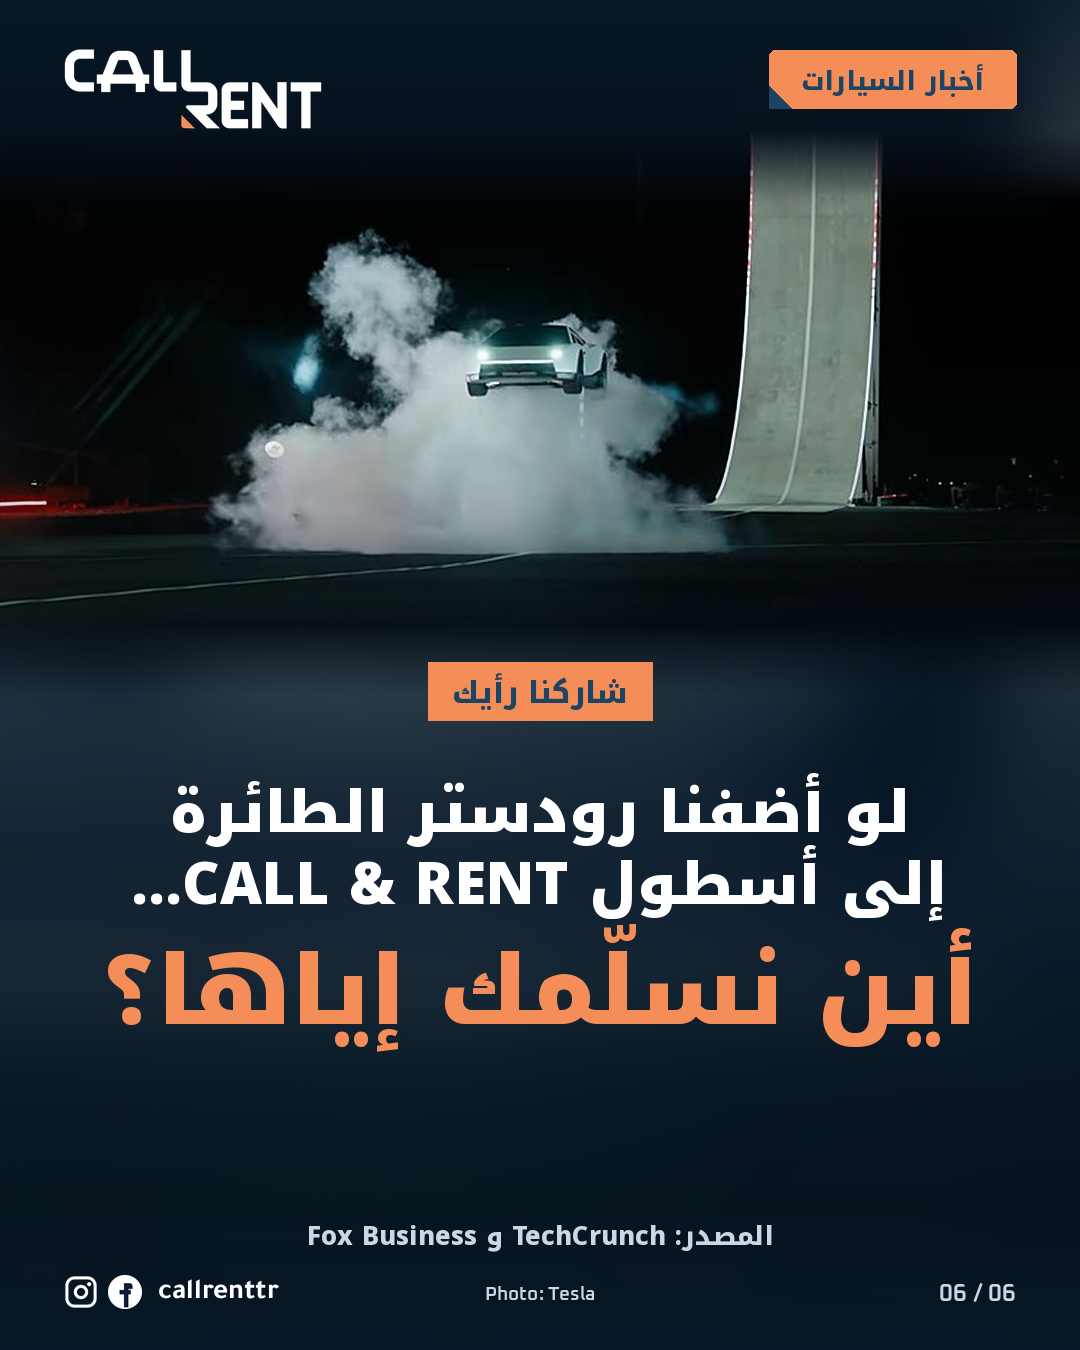
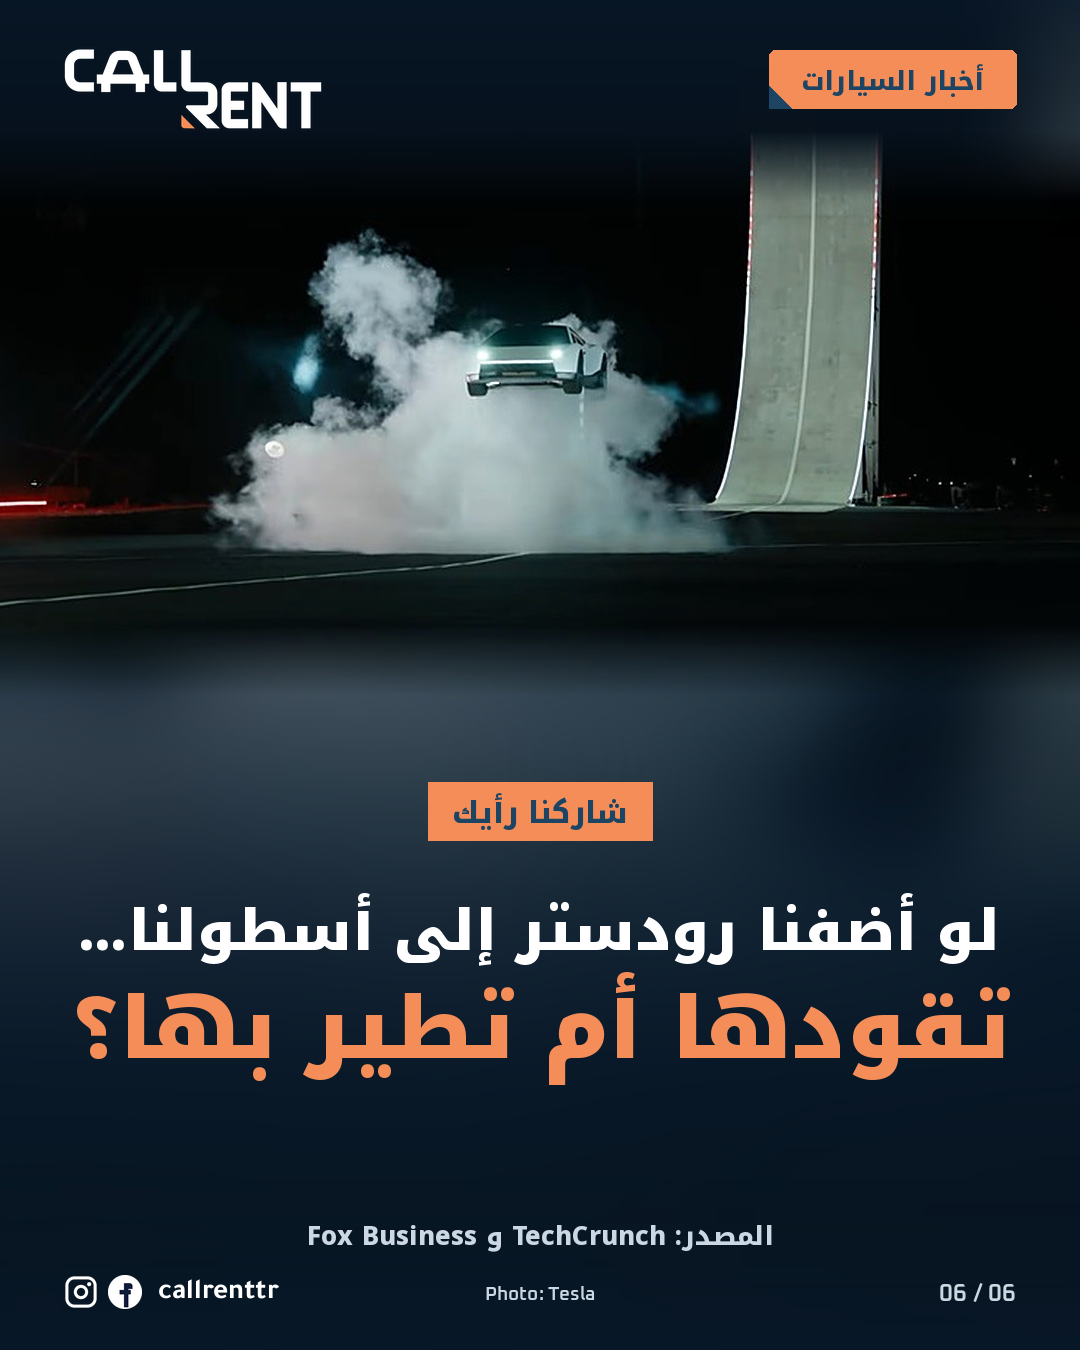
Roadster carousel: new closing question (drive it or fly it?)
Claude-Session: https://claude.ai/code/session_01JWxxZZBXcuDznNNTjM86b7

Changed region(s): [[0.0611, 0.4667, 0.9472, 0.8089]]

diff --git a/marketing/news/stories/tesla_roadster.py b/marketing/news/stories/tesla_roadster.py
@@ -29,8 +29,7 @@ SLIDES = [
          title=[('الإنتاج يبدأ', Wh), ('عام 2028', O)],
          body=[('لم تعلن تسلا عن', Wh), ('السعر النهائي', O), ('للسيارة، فيما أكد مسؤولو الشركة أن', Wh),
                ('الإنتاج سيبدأ عام 2028،', O), ('بعد تأجيلات متكررة منذ الكشف الأول عنها عام 2017.', Wh)]),
-    dict(kind='ask', bg='roadster-6-ask.jpg', chip='شاركنا رأيك', top=760, credit=PHOTO, lines=[
-        ('لو أضفنا رودستر الطائرة', Wh, 58),
-        ('إلى أسطول CALL & RENT…', Wh, 58),
-        ('أين نسلّمك إياها؟', O, 96)]),
+    dict(kind='ask', bg='roadster-6-ask.jpg', chip='شاركنا رأيك', top=880, credit=PHOTO, lines=[
+        ('لو أضفنا رودستر إلى أسطولنا…', Wh, 60),
+        ('تقودها أم تطير بها؟', O, 96)]),
 ]
